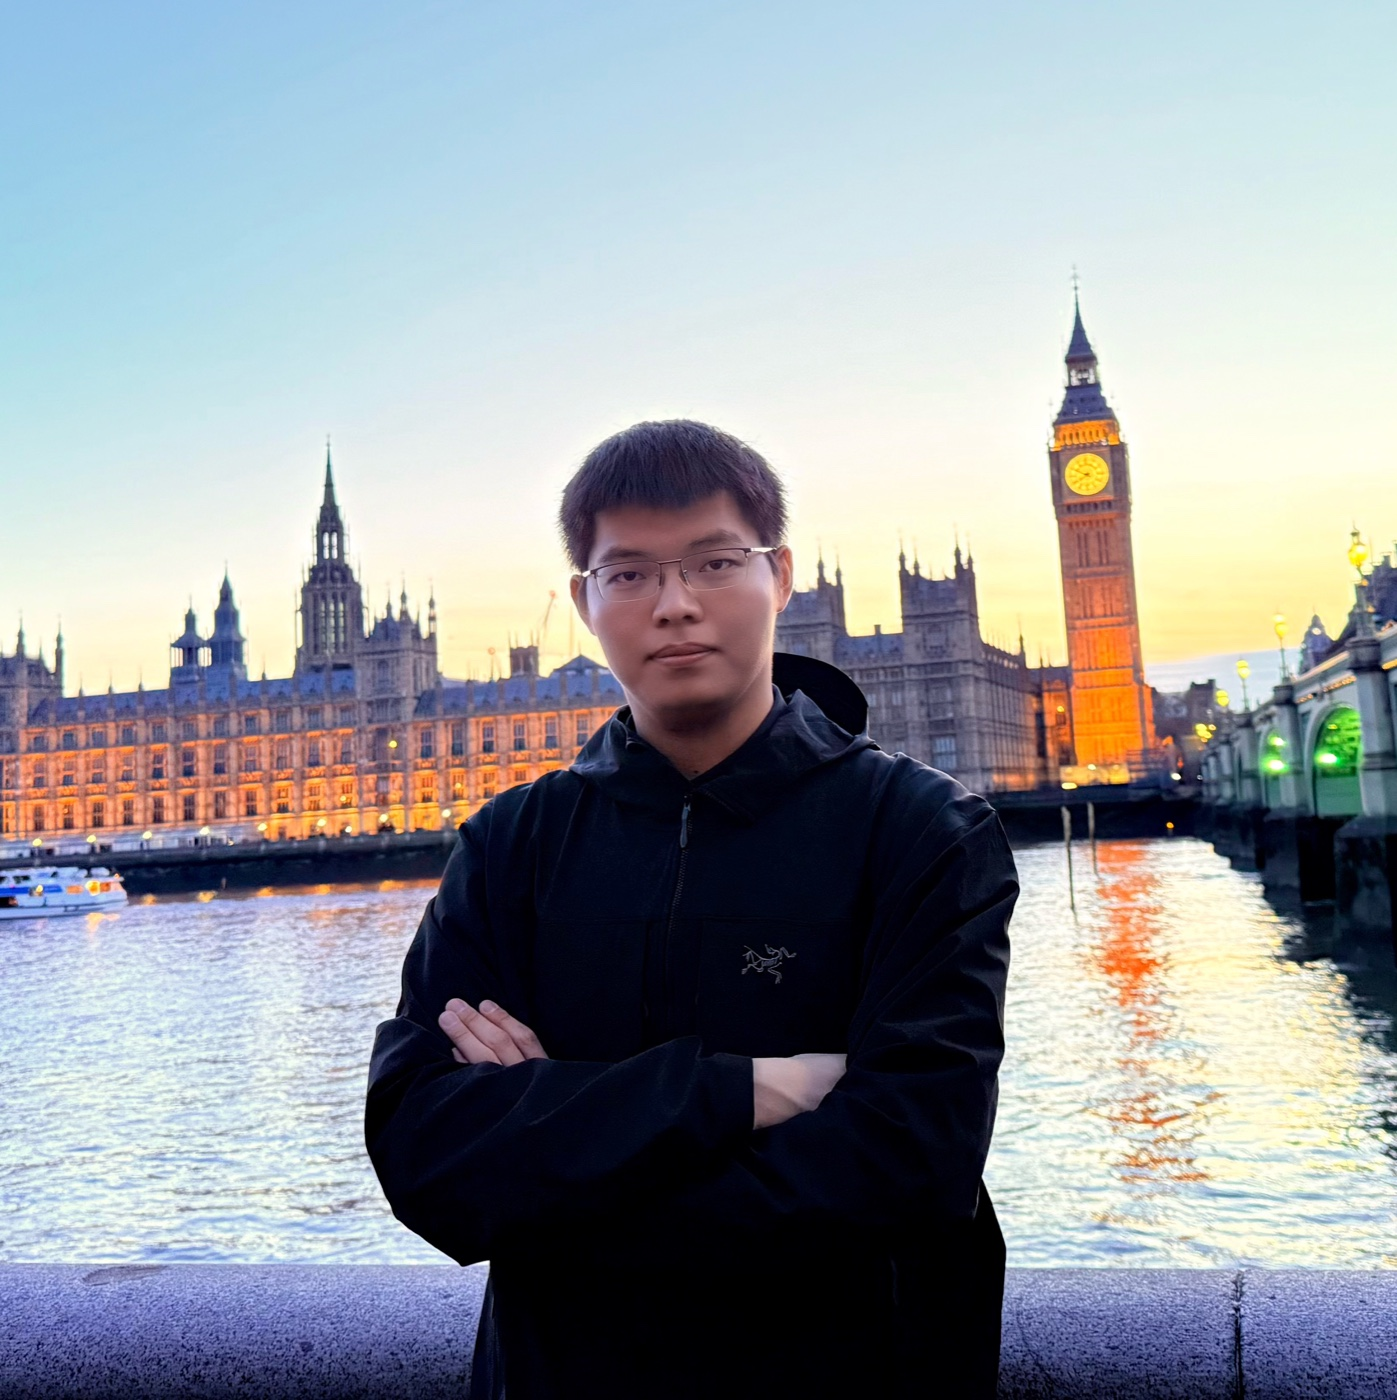
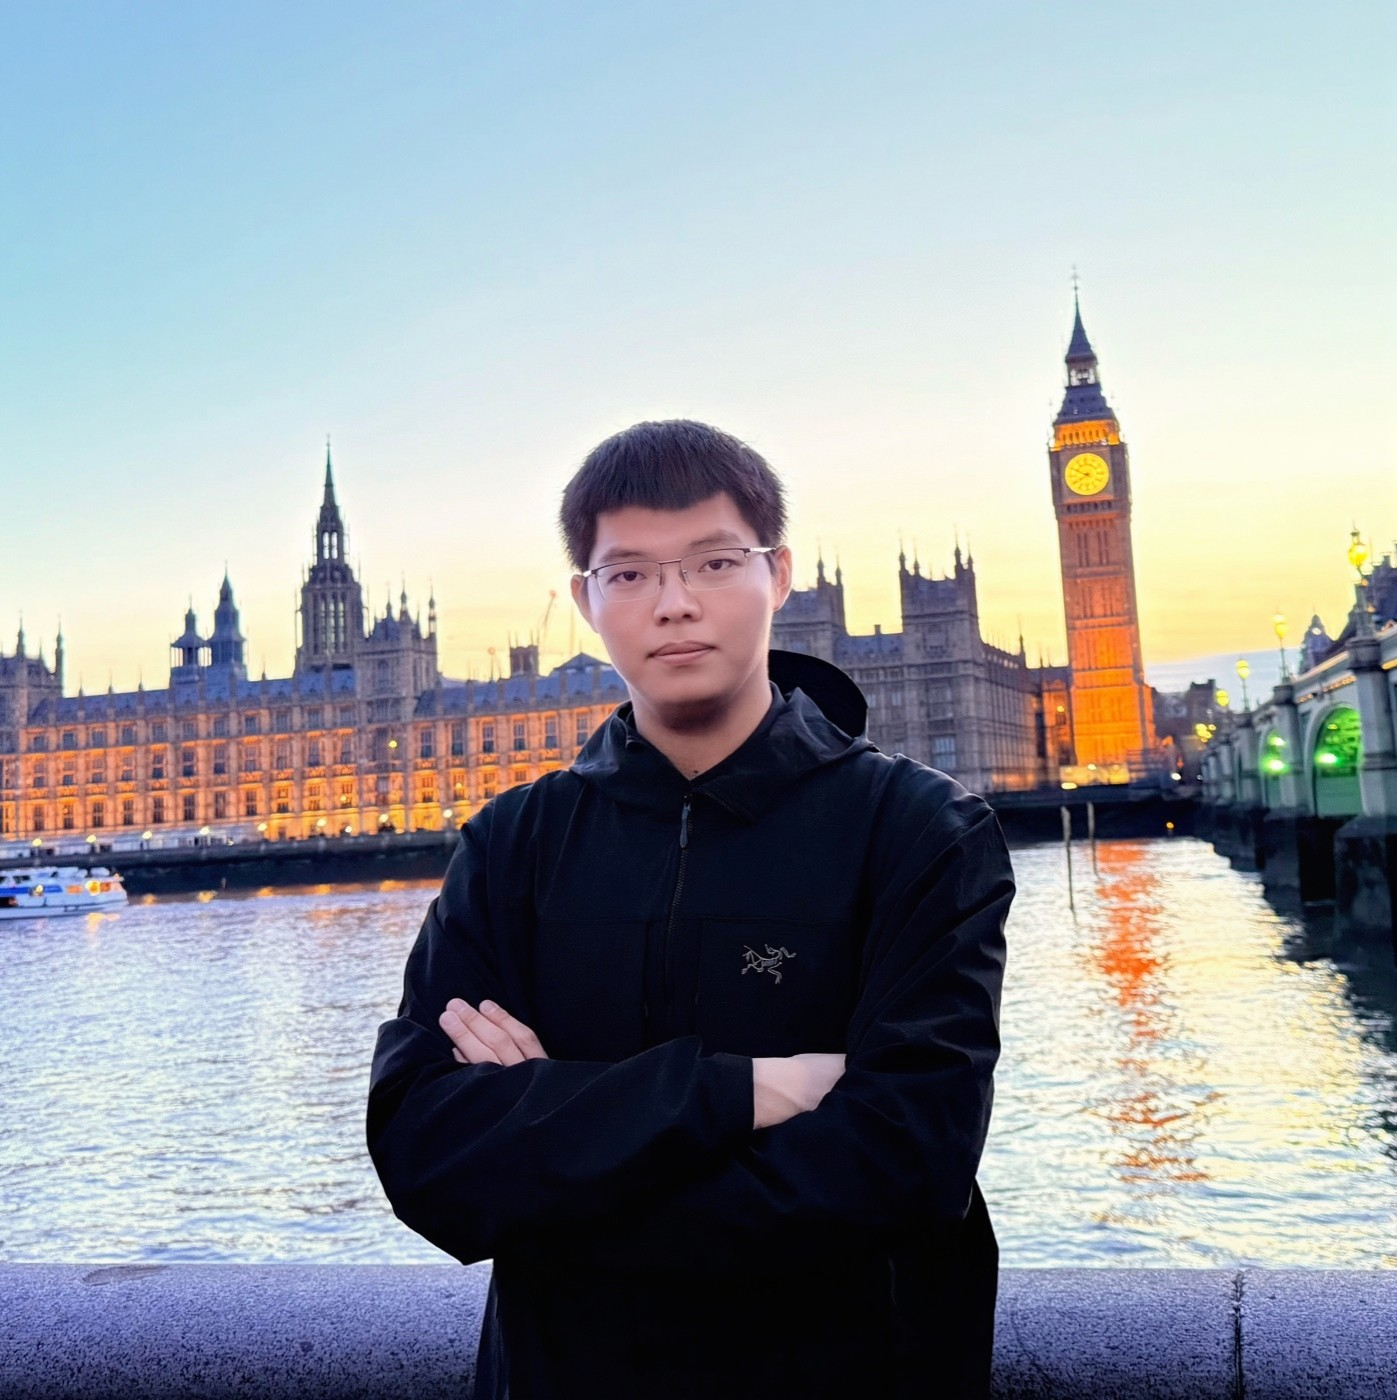
Replace homepage profile photo

diff --git a/index.html b/index.html
@@ -40,8 +40,8 @@
     <section class="hero">
       <aside class="profile-side">
         <div class="profile-photo">
-          <a class="zoom-link image-shell" href="images/Personal.jpg" data-zoom-src="images/Personal.jpg">
-            <img src="images/Personal.jpg" alt="Qi Shao profile photo" onerror="this.style.display='none';">
+          <a class="zoom-link image-shell" href="images/Personal.jpg?v=20261007" data-zoom-src="images/Personal.jpg?v=20261007">
+            <img src="images/Personal.jpg?v=20261007" alt="Qi Shao profile photo" onerror="this.style.display='none';">
           </a>
         </div>
 
